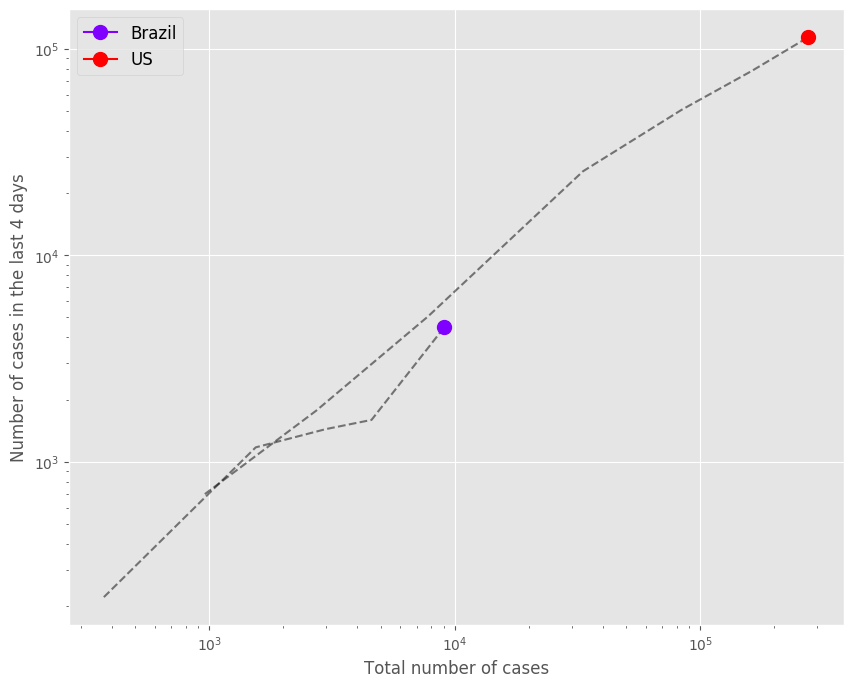
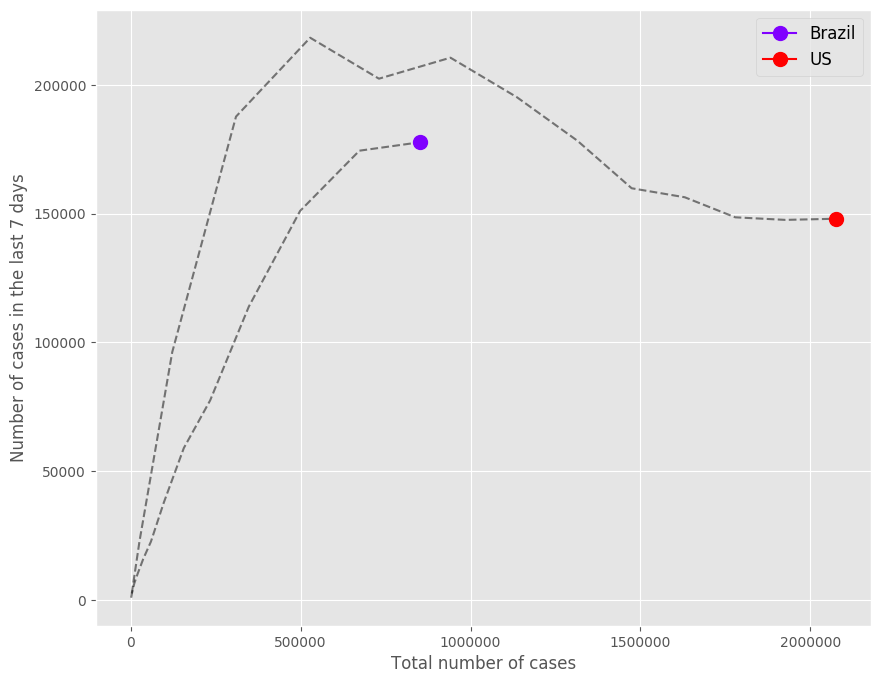
change chart2 to 7 days

diff --git a/database.py b/database.py
@@ -300,7 +300,7 @@ class Chart:
             if N>0:
                 D = self.data[country][-N:]
                 
-                P_DAYS = 4
+                P_DAYS = 7
                 N_DAYS = N
                 
                 DAYS_RANGE = N_DAYS - (N_DAYS%P_DAYS)

diff --git a/covid19bot.py b/covid19bot.py
@@ -16,10 +16,9 @@ import schedule
 
 token = os.getenv("COV19BOT_TOKEN")
 
-
 bot = telepot.Bot(token)
 
-#SUBS = subs_db()
+SUBS = subs_db()
 print("* Subscribers database updated")
 
 DADOS = Database()
